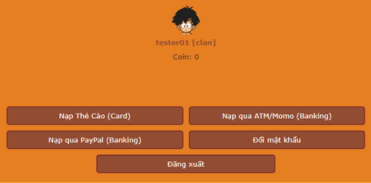
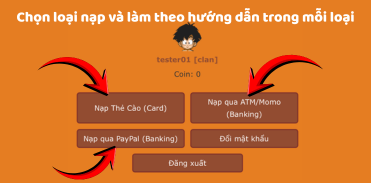
update guide topup

Changed region(s): [[0.0, 0.3005, 1.0, 1.0], [0.0296, 0.0273, 0.9784, 0.3552], [0.4447, 0.3825, 0.5633, 0.4372]]

diff --git a/huongdannap.html b/huongdannap.html
@@ -183,7 +183,7 @@
                 </div>
                 <br>
                 <div class="image-box">
-                    <img src="images/huongdan5.png" alt="Hướng dẫn nạp bước 1">
+                    <img src="images/huongdan4.png" alt="Hướng dẫn nạp bước 1">
                 </div>
             </div>
 
@@ -191,7 +191,12 @@
             <div class="step">
                 <div class="step-title">Bước 5: Quy đổi trong game</div>
                 <div class="step-desc">
-                    Đăng nhập vào game → đến <b>NPC trong nhà</b> → chọn nút
+                    Khi <b>Coin đã vào</b> nick trong Web → <b>Thoát game</b> và
+                    Đăng
+                    nhập lại
+                    vào
+                    game → đến
+                    <b>NPC trong nhà</b> → chọn nút
                     <b>Nạp
                         tiền & Quy
                         đổi</b>.
@@ -201,7 +206,7 @@
                     <br>• Đổi sang <b>Thỏi Vàng</b>
                 </div>
                 <div class="image-box">
-                    <img src="images/huongdan6.png" alt="Hướng dẫn nạp bước 1">
+                    <img src="images/huongdan5.png" alt="Hướng dẫn nạp bước 1">
                 </div>
             </div>
 
